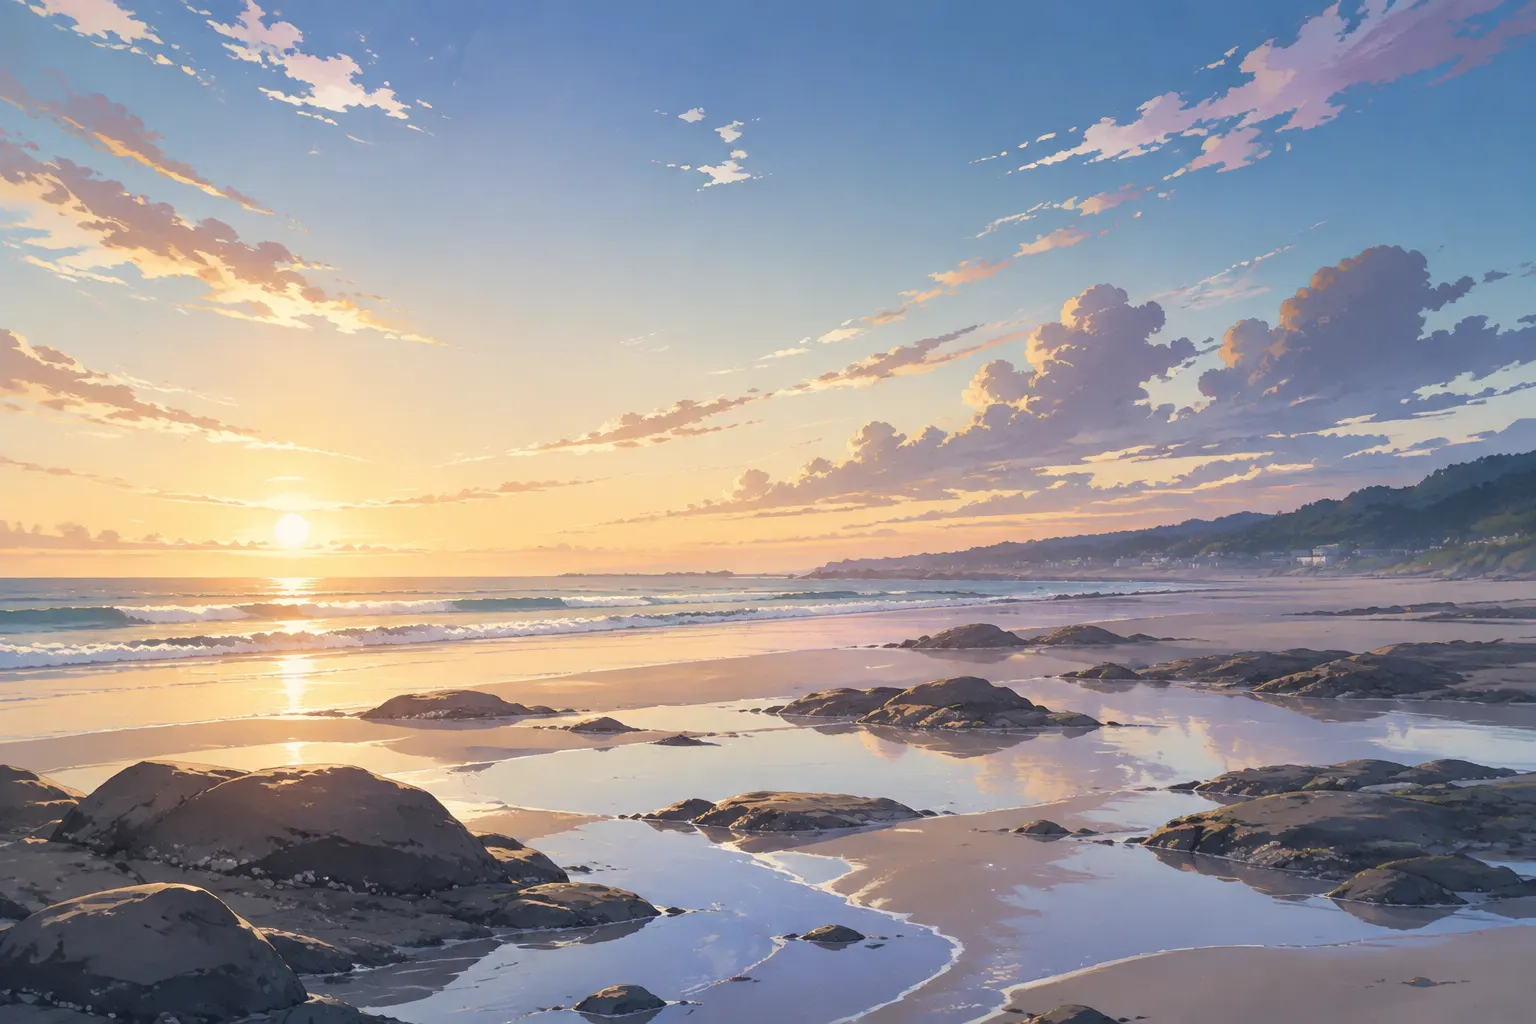
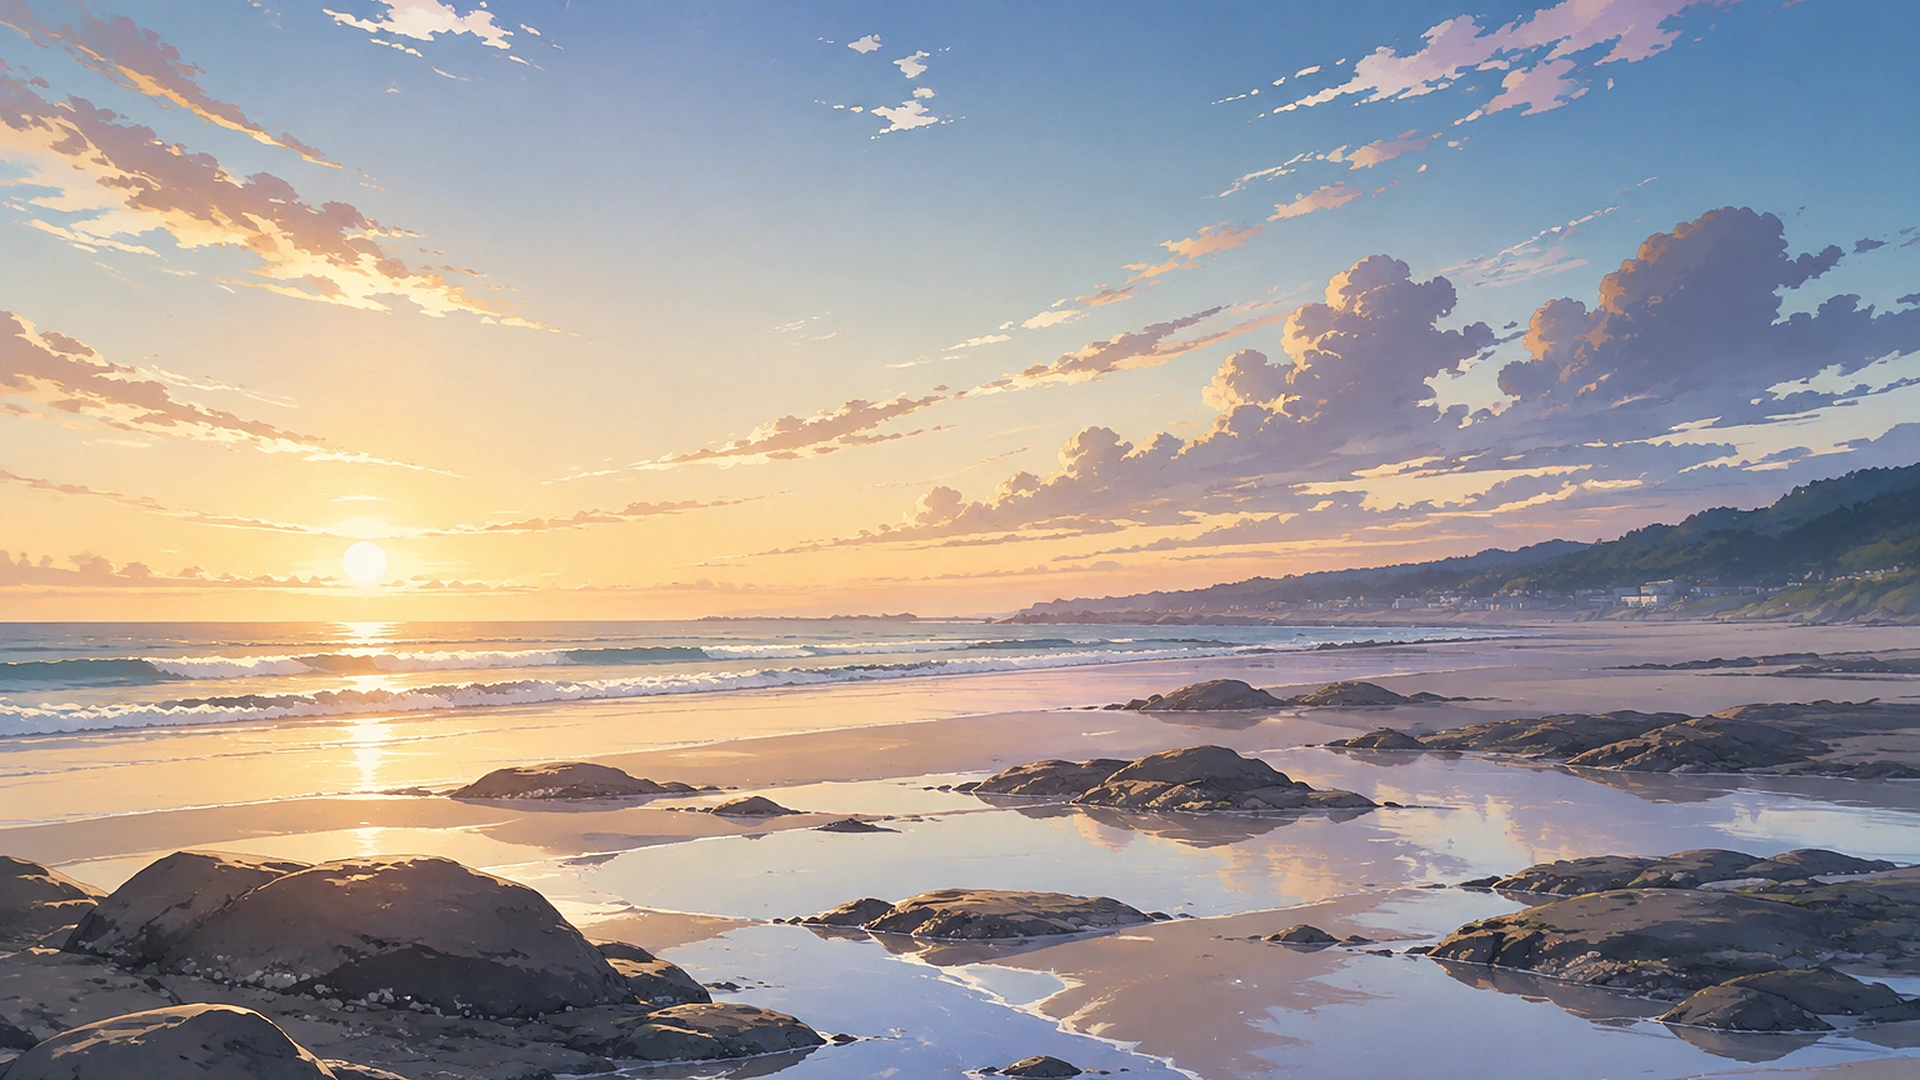
fix(assets): 修复背景 WebP 模糊
- 从转码前 PNG 高质重导出，统一 1920x1080 / quality 95
- 去掉背景层 scale 放大，避免全屏发糊
- 补齐酒店专用场景高清背景

diff --git a/src/components/BackgroundLayer.vue b/src/components/BackgroundLayer.vue
@@ -45,16 +45,9 @@ const isBlack = computed(() => props.bg === 'black' || !src.value)
   width: 100%;
   height: 100%;
   object-fit: cover;
-  /* 略放大裁切，减少超宽屏「整间店铺开」的空旷感 */
-  object-position: center 42%;
-  transform: scale(1.06);
-  transform-origin: center center;
-}
-
-@media (min-aspect-ratio: 16/9) {
-  .bg-img {
-    transform: scale(1.12);
-  }
+  /* 轻微偏上构图，避免放大 scale 造成 WebP 发糊 */
+  object-position: center 40%;
+  image-rendering: auto;
 }
 
 .bg-black {

diff --git a/src/data/assets.ts b/src/data/assets.ts
@@ -6,7 +6,7 @@
  *
  * ASSET_VER：换图后递增，强制浏览器绕过旧缓存
  */
-export const ASSET_VER = '20260802qh8'
+export const ASSET_VER = '20260802bg1'
 
 function asset(path: string): string {
   if (!path) return path
